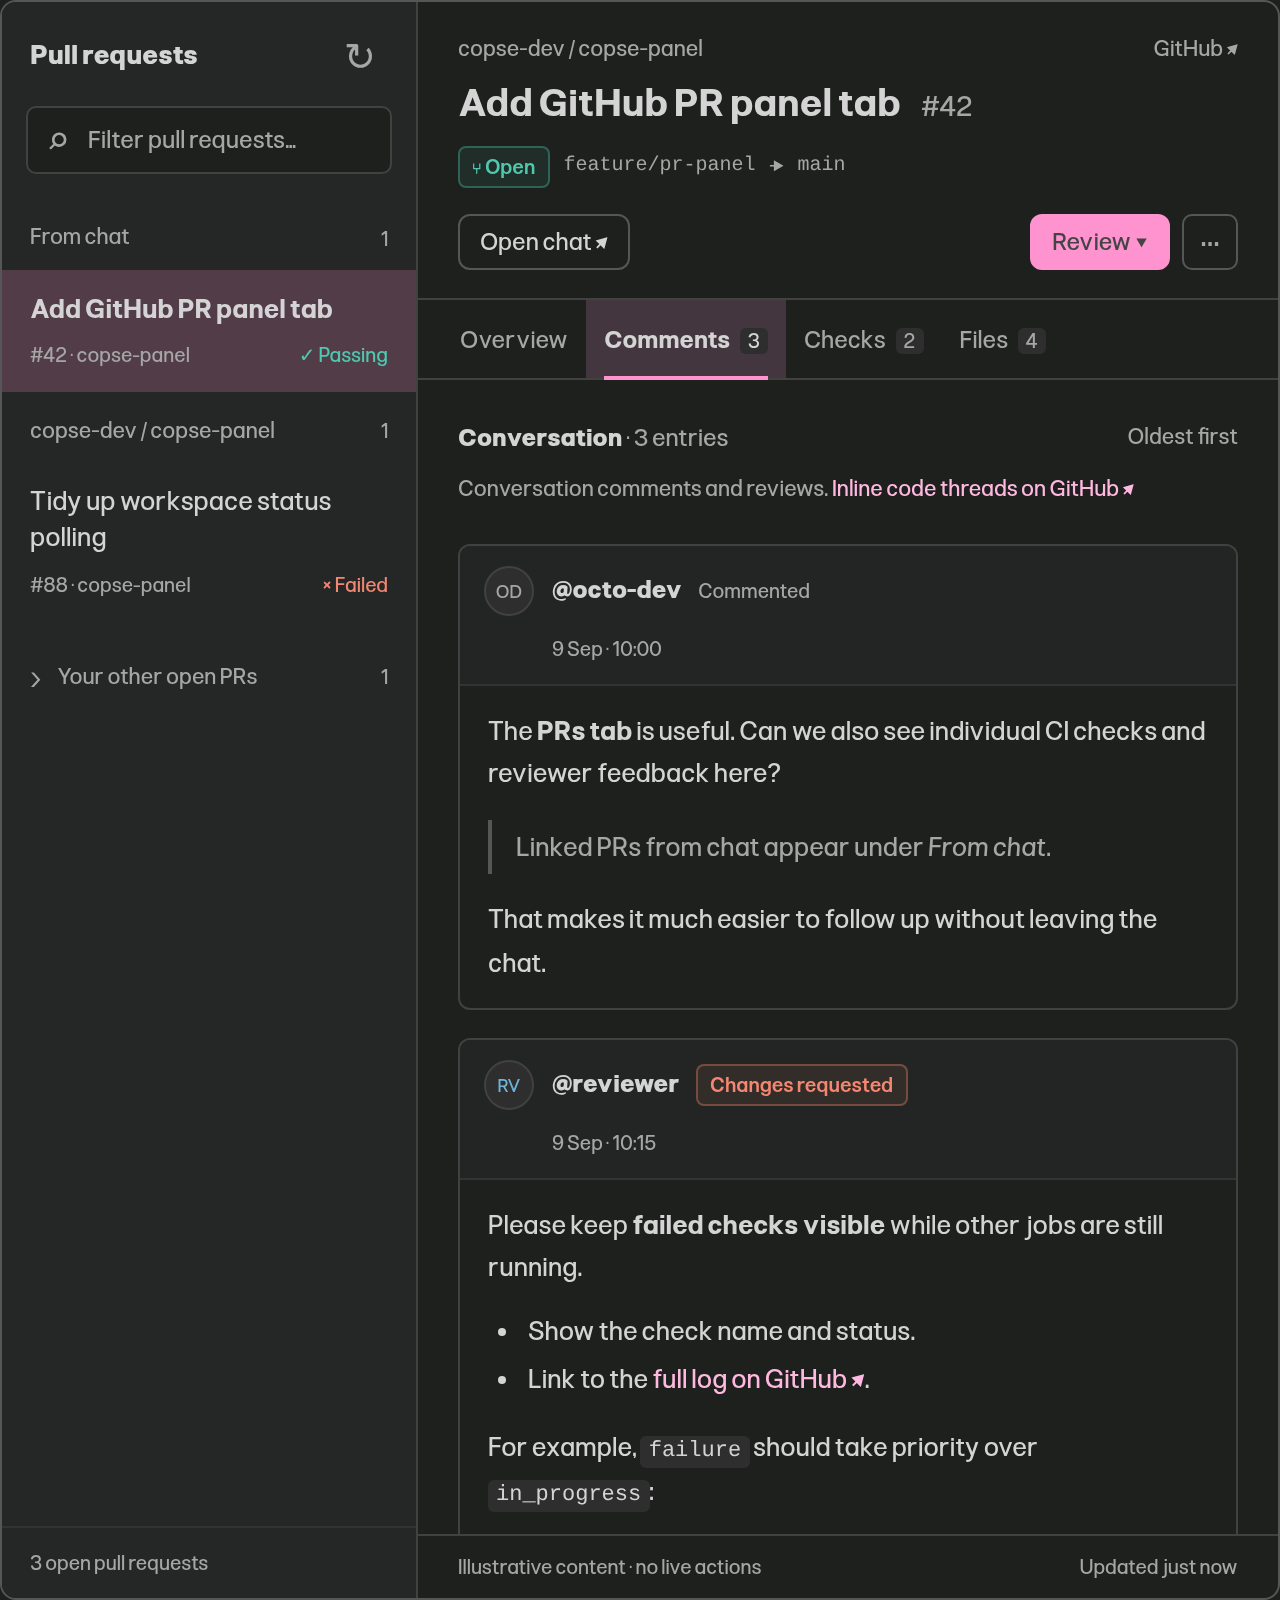
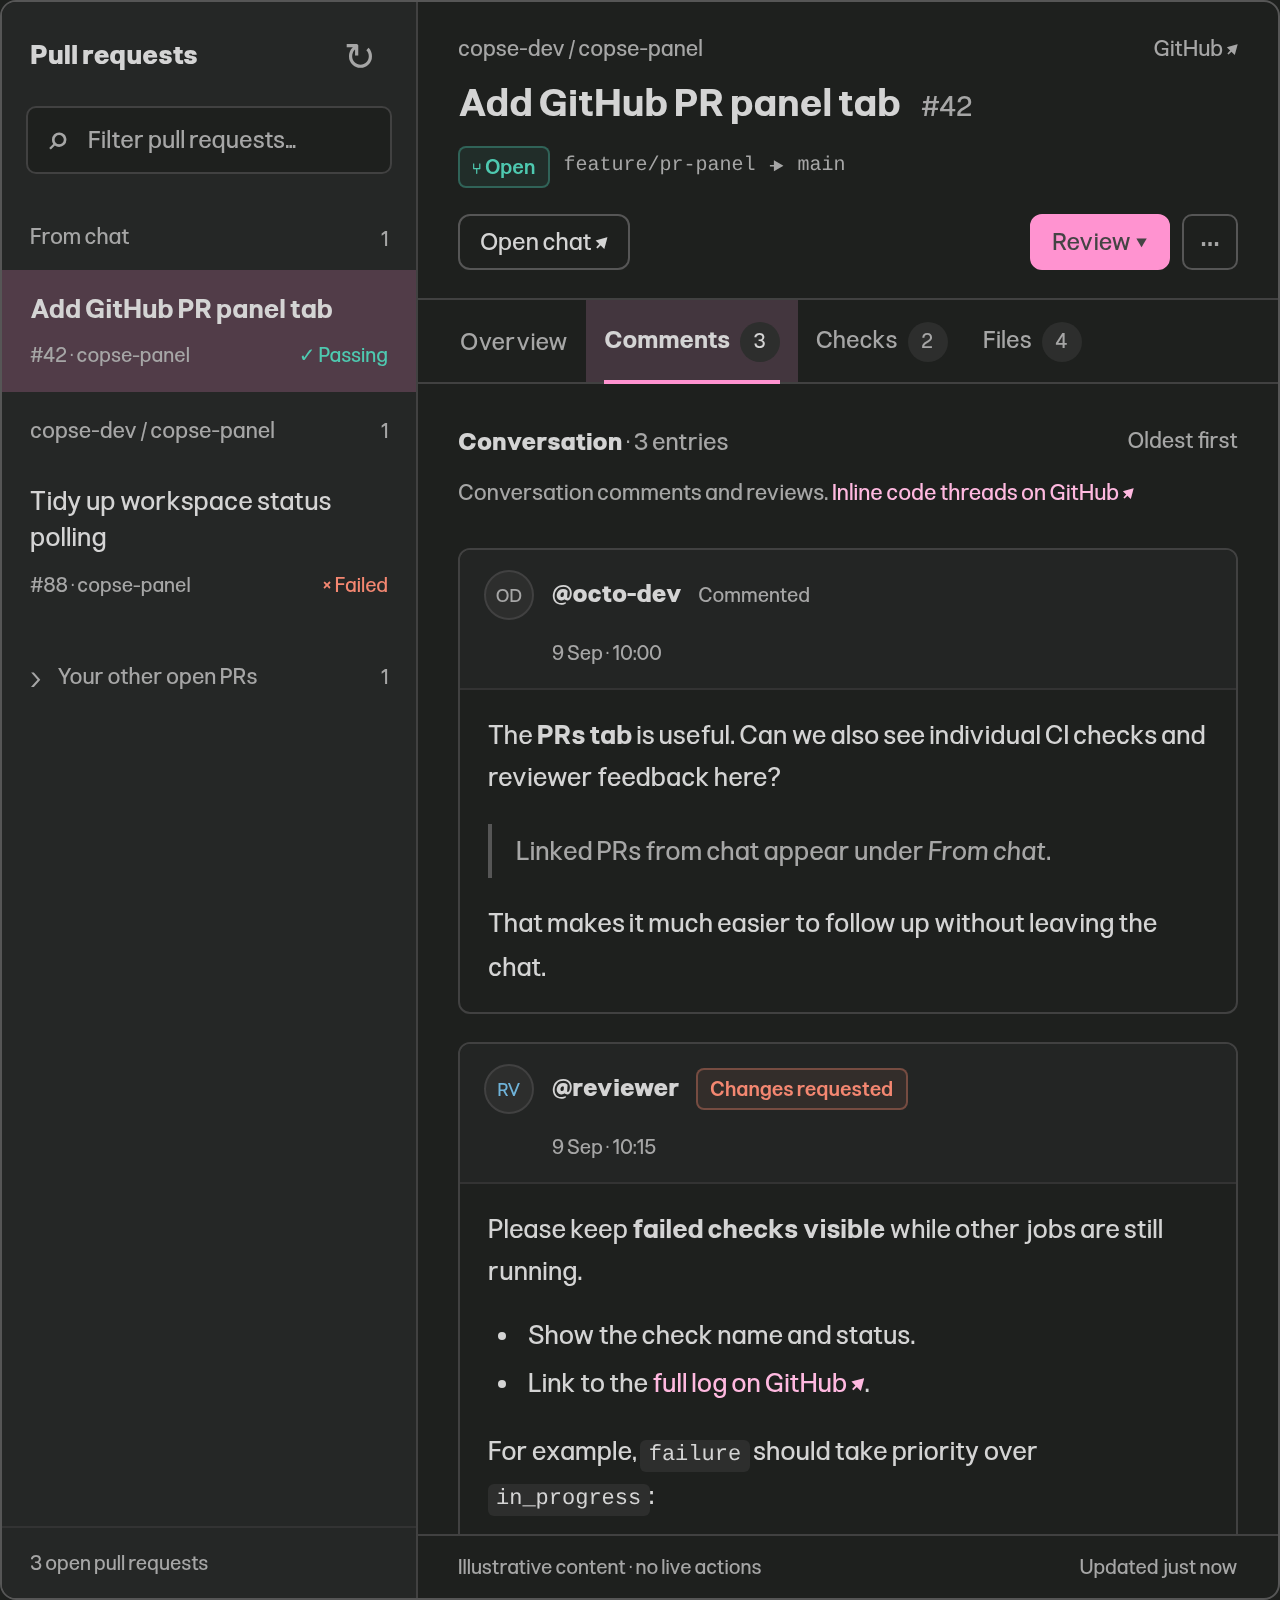
Keep PR tab count badges round and hide them in narrow panels

diff --git a/tests/e2e/pr-panel-activity.e2e.ts b/tests/e2e/pr-panel-activity.e2e.ts
@@ -55,6 +55,38 @@ describe('PR comments and checks', () => {
       )
     })
     expect(commentLayout).toBe(true)
+    await expect(await $('.pr-section-count')).not.toBeDisplayed()
+    await $('[aria-label="Expand pull requests over chat"]').click()
+    await $('.pr-section-count').waitForDisplayed({ timeout: 5_000 })
+    const countsAreRound = await browser.execute(() => {
+      const badges = [...document.querySelectorAll<HTMLElement>('.pr-section-count')]
+      return (
+        badges.length === 3 &&
+        badges.every((badge) => {
+          const bounds = badge.getBoundingClientRect()
+          return (
+            bounds.width > 0 &&
+            Math.abs(bounds.width - bounds.height) < 0.5 &&
+            getComputedStyle(badge).borderRadius === '50%'
+          )
+        })
+      )
+    })
+    expect(countsAreRound).toBe(true)
+    await saveElementScreenshot('#pane-files', 'pr-activity-comments-expanded.png')
+    const multiDigitCountIsRound = await browser.execute(() => {
+      const badge = document.querySelector<HTMLElement>('.pr-section-count')
+      if (!badge) return false
+      const original = badge.textContent
+      badge.textContent = '100+'
+      const bounds = badge.getBoundingClientRect()
+      const fits = badge.scrollWidth <= badge.clientWidth + 1
+      badge.textContent = original
+      return fits && Math.abs(bounds.width - bounds.height) < 0.5
+    })
+    expect(multiDigitCountIsRound).toBe(true)
+    await $('[aria-label="Restore pull requests"]').click()
+    await browser.waitUntil(async () => !(await $('.pr-section-count').isDisplayed()))
     await expect(await $('.pr-viewer-description')).not.toBeDisplayed()
     await expect(await $('.pr-viewer-files')).not.toBeDisplayed()
     await saveElementScreenshot('#pane-files', 'pr-activity-comments.png')

diff --git a/prototypes/github-panels/prototype.css b/prototypes/github-panels/prototype.css
@@ -267,6 +267,7 @@ input::placeholder {
   border-top: 1px solid var(--border-subtle);
 }
 .detail {
+  container-type: inline-size;
   display: flex;
   flex-direction: column;
   min-height: 0;
@@ -419,9 +420,16 @@ h2 {
   background: var(--accent);
 }
 .tabs button span {
+  display: inline-grid;
+  place-items: center;
+  flex-shrink: 0;
+  width: max-content;
+  min-width: 20px;
+  aspect-ratio: 1;
+  line-height: 1;
   font-size: 10px;
   padding: 0 4px;
-  border-radius: 3px;
+  border-radius: 50%;
   background: var(--bg-muted);
   margin-left: 3px;
   font-weight: 400;
@@ -842,5 +850,10 @@ summary.check-group-title > span {
   time {
     flex-basis: calc(100% - 34px);
     margin-left: 34px;
+  }
+}
+@container (max-width: 380px) {
+  .tabs button span {
+    display: none;
   }
 }

diff --git a/src/renderer/styles/global/layout.css b/src/renderer/styles/global/layout.css
@@ -1510,10 +1510,17 @@
   font-weight: 600;
 }
 .pr-section-count {
+  display: inline-grid;
+  place-items: center;
+  flex-shrink: 0;
+  width: max-content;
+  min-width: calc(20px * var(--ui-scale));
+  aspect-ratio: 1;
+  line-height: 1;
   font-size: var(--font-size-2xs);
   font-weight: 400;
   padding: 0 var(--spacing-xs);
-  border-radius: var(--radius);
+  border-radius: 50%;
   background: var(--bg-muted);
 }
 .pr-activity {
@@ -1604,6 +1611,9 @@
   min-width: 0;
 }
 @container (max-width: 380px) {
+  .pr-section-count {
+    display: none;
+  }
   .pr-comment-meta time {
     grid-column: 2 / -1;
   }
